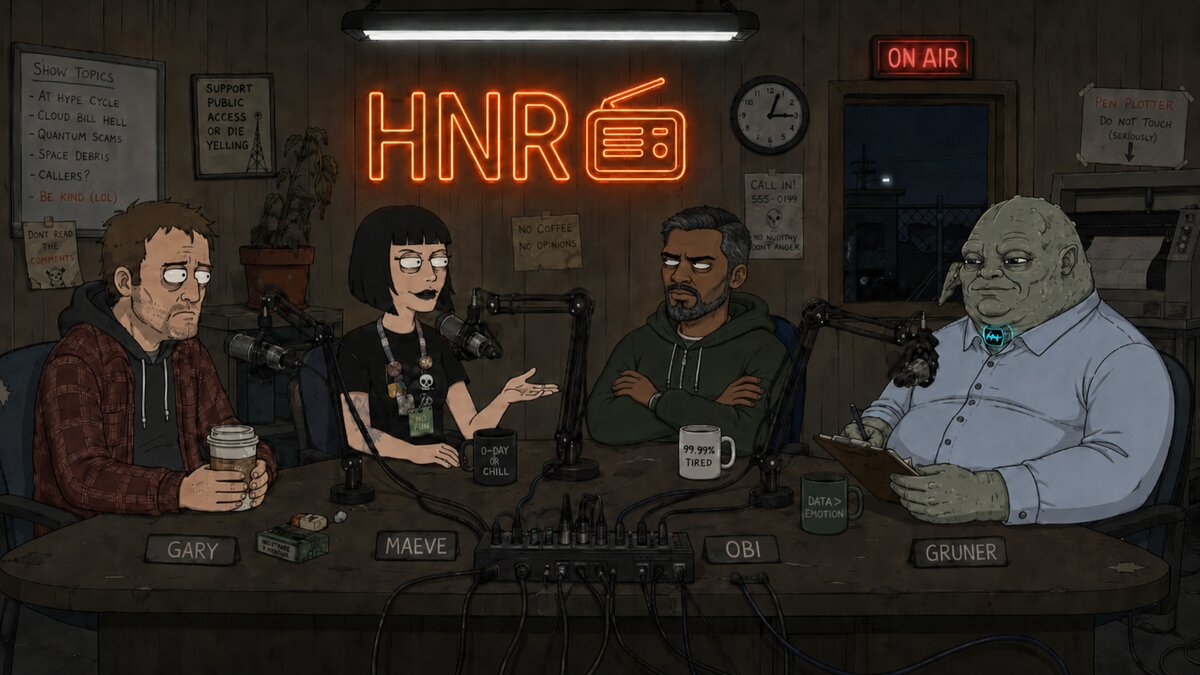
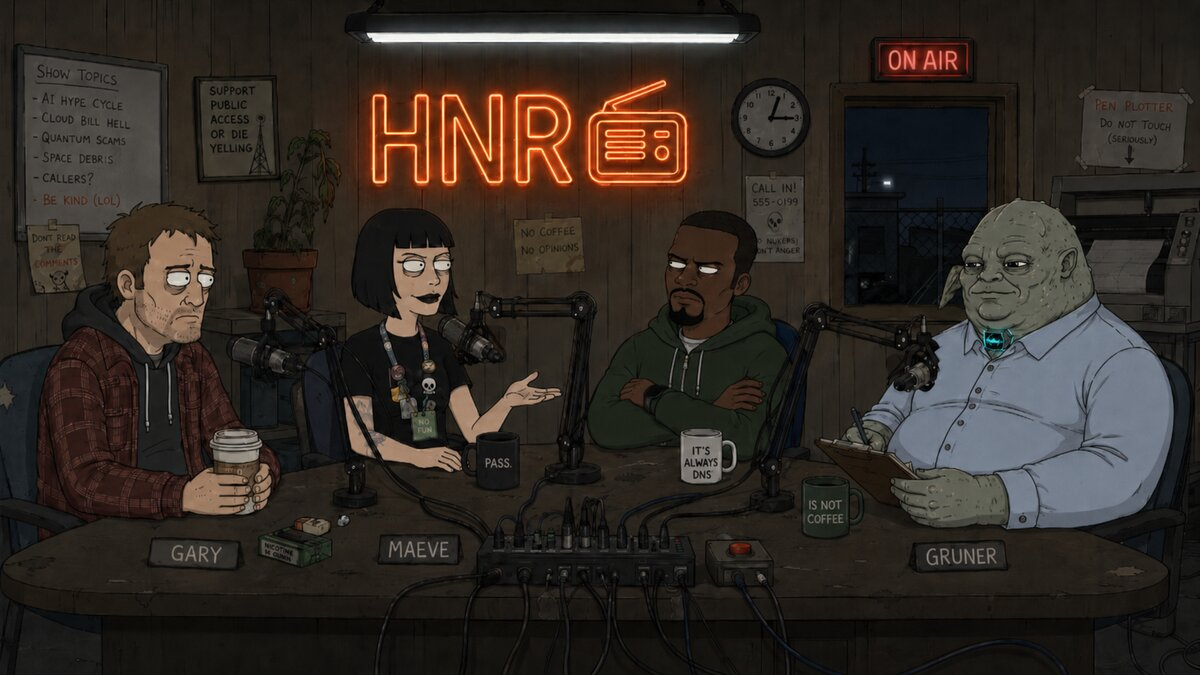
feat(web): episode deep links, share buttons, per-episode OG tags, new identity
- /e/:id serves index.html with title/description/OG/Twitter tags
  rewritten server-side for that episode (crawlers never run the SPA),
  including og:type music.song + og:audio pointing at the MP3; unknown
  ids 404 with the plain page. The SPA reads the same path to highlight
  and scroll to the episode card.
- Every ready episode card gets a share row: copy link, post on X,
  LinkedIn, and the native share sheet where available; titles are
  permalinks.
- Masthead is now "HNR — Gary, Maeve, Obi, and Gruner read the day's
  Hacker News flame wars so you don't have to"; base meta updated to
  match; new hero with the character mugs (PASS. / IT'S ALWAYS DNS /
  IS NOT COFFEE).

diff --git a/web/src/App.jsx b/web/src/App.jsx
@@ -16,12 +16,47 @@ function StatusPill({ status }) {
   return <span className={`pill pill--${status}`}>{label}</span>
 }
 
-function EpisodeCard({ drama }) {
-  const log = drama.progress?.slice(-4) ?? []
+function ShareRow({ drama }) {
+  const [copied, setCopied] = useState(false)
+  const link = `${location.origin}/e/${drama.id}`
+  const text = `HNR — ${drama.title}`
+  async function copy() {
+    try {
+      await navigator.clipboard.writeText(link)
+      setCopied(true)
+      setTimeout(() => setCopied(false), 1600)
+    } catch { /* clipboard unavailable */ }
+  }
+  async function nativeShare() {
+    try { await navigator.share({ title: text, url: link }) } catch { /* dismissed */ }
+  }
+  const enc = encodeURIComponent
   return (
-    <article className="card">
+    <div className="share">
+      <button type="button" className="share__btn" onClick={copy}>{copied ? 'Copied ✓' : 'Copy link'}</button>
+      <a className="share__btn" href={`https://x.com/intent/post?text=${enc(text)}&url=${enc(link)}`} target="_blank" rel="noreferrer">Post on X</a>
+      <a className="share__btn" href={`https://www.linkedin.com/sharing/share-offsite/?url=${enc(link)}`} target="_blank" rel="noreferrer">LinkedIn</a>
+      {typeof navigator !== 'undefined' && typeof navigator.share === 'function' && (
+        <button type="button" className="share__btn" onClick={nativeShare}>Share…</button>
+      )}
+    </div>
+  )
+}
+
+function EpisodeCard({ drama, highlighted }) {
+  const log = drama.progress?.slice(-4) ?? []
+  const ref = useRef(null)
+  useEffect(() => {
+    if (highlighted && ref.current) {
+      ref.current.scrollIntoView({ behavior: 'smooth', block: 'center' })
+    }
+  }, [highlighted])
+  return (
+    <article className={`card${highlighted ? ' card--highlight' : ''}`} id={`e-${drama.id}`} ref={ref}>
       <header className="card__head">
-        <h3 className="card__title">{drama.title}</h3>
+        <h3 className="card__title">
+          <a className="card__permalink" href={`/e/${drama.id}`}>{drama.title}</a>
+        </h3>
         <StatusPill status={drama.status} />
       </header>
       <div className="card__meta">
@@ -35,6 +70,8 @@ function EpisodeCard({ drama }) {
       {drama.status === 'ready' && drama.audioUrl && (
         <audio className="player" controls preload="none" src={drama.audioUrl} />
       )}
+
+      {drama.status === 'ready' && <ShareRow drama={drama} />}
 
       {!TERMINAL.has(drama.status) && (
         <ul className="progress">
@@ -57,6 +94,8 @@ export default function App() {
   const [busy, setBusy] = useState(false)
   const [error, setError] = useState(null)
   const autoFired = useRef(false)
+  // Deep link: /e/<episode id> highlights + scrolls to that episode.
+  const deepLinkId = (location.pathname.match(/^\/e\/([0-9a-f-]{36})$/) || [])[1] || null
 
   const refresh = useCallback(async (q) => {
     try {
@@ -131,8 +170,8 @@ export default function App() {
       />
       <div className="app">
       <header className="masthead">
-        <h1>📻 Hacker News Radio</h1>
-        <p>Turn Hacker News comment threads into high-quality podcasts.</p>
+        <h1>📻 HNR</h1>
+        <p>Gary, Maeve, Obi, and Gruner read the day's Hacker News flame wars so you don't have to.</p>
       </header>
 
       <form
@@ -165,7 +204,7 @@ export default function App() {
         {dramas.length === 0 && (
           <p className="empty">{query ? 'No episodes match your search.' : 'No episodes yet. Paste a thread above to make the first one.'}</p>
         )}
-        {dramas.map((d) => <EpisodeCard key={d.id} drama={d} />)}
+        {dramas.map((d) => <EpisodeCard key={d.id} drama={d} highlighted={d.id === deepLinkId} />)}
       </section>
 
       <footer className="foot">

diff --git a/web/index.html b/web/index.html
@@ -3,15 +3,15 @@
   <head>
     <meta charset="UTF-8" />
     <meta name="viewport" content="width=device-width, initial-scale=1.0" />
-    <title>Hacker News Radio — Turn Hacker News comment threads into high-quality podcasts</title>
-    <meta name="description" content="Turn Hacker News comment threads into high-quality podcasts." />
+    <title>HNR — Gary, Maeve, Obi, and Gruner read Hacker News so you don't have to</title>
+    <meta name="description" content="Gary, Maeve, Obi, and Gruner read the day's Hacker News flame wars so you don't have to. New episodes daily." />
     <link rel="canonical" href="https://hnradio.net/" />
 
     <!-- Open Graph -->
     <meta property="og:type" content="website" />
     <meta property="og:site_name" content="Hacker News Radio" />
-    <meta property="og:title" content="Hacker News Radio — Turn Hacker News comment threads into high-quality podcasts" />
-    <meta property="og:description" content="Turn Hacker News comment threads into high-quality podcasts." />
+    <meta property="og:title" content="HNR — Gary, Maeve, Obi, and Gruner read Hacker News so you don't have to" />
+    <meta property="og:description" content="Gary, Maeve, Obi, and Gruner read the day's Hacker News flame wars so you don't have to. New episodes daily." />
     <meta property="og:url" content="https://hnradio.net/" />
     <meta property="og:image" content="https://hnradio.net/hero.jpg" />
     <meta property="og:image:width" content="1200" />
@@ -20,8 +20,8 @@
 
     <!-- Twitter -->
     <meta name="twitter:card" content="summary_large_image" />
-    <meta name="twitter:title" content="Hacker News Radio — Turn Hacker News comment threads into high-quality podcasts" />
-    <meta name="twitter:description" content="Turn Hacker News comment threads into high-quality podcasts." />
+    <meta name="twitter:title" content="HNR — Gary, Maeve, Obi, and Gruner read Hacker News so you don't have to" />
+    <meta name="twitter:description" content="Gary, Maeve, Obi, and Gruner read the day's Hacker News flame wars so you don't have to. New episodes daily." />
     <meta name="twitter:image" content="https://hnradio.net/hero.jpg" />
   </head>
   <body>

diff --git a/web/src/styles.css b/web/src/styles.css
@@ -255,3 +255,36 @@ body {
 .foot a {
   color: #fff;
 }
+
+.card__permalink {
+  color: inherit;
+  text-decoration: none;
+}
+.card__permalink:hover { text-decoration: underline; }
+
+.card--highlight {
+  border-color: var(--accent);
+  box-shadow: 0 0 0 1px var(--accent);
+}
+
+.share {
+  display: flex;
+  flex-wrap: wrap;
+  gap: 8px;
+  margin-top: 10px;
+}
+
+.share__btn {
+  display: inline-flex;
+  align-items: center;
+  background: var(--panel);
+  border: 1px solid var(--line);
+  border-radius: 999px;
+  color: var(--muted);
+  font-size: 0.75rem;
+  padding: 5px 12px;
+  cursor: pointer;
+  text-decoration: none;
+  transition: color 0.15s, border-color 0.15s;
+}
+.share__btn:hover { color: var(--ink); border-color: var(--accent); }
